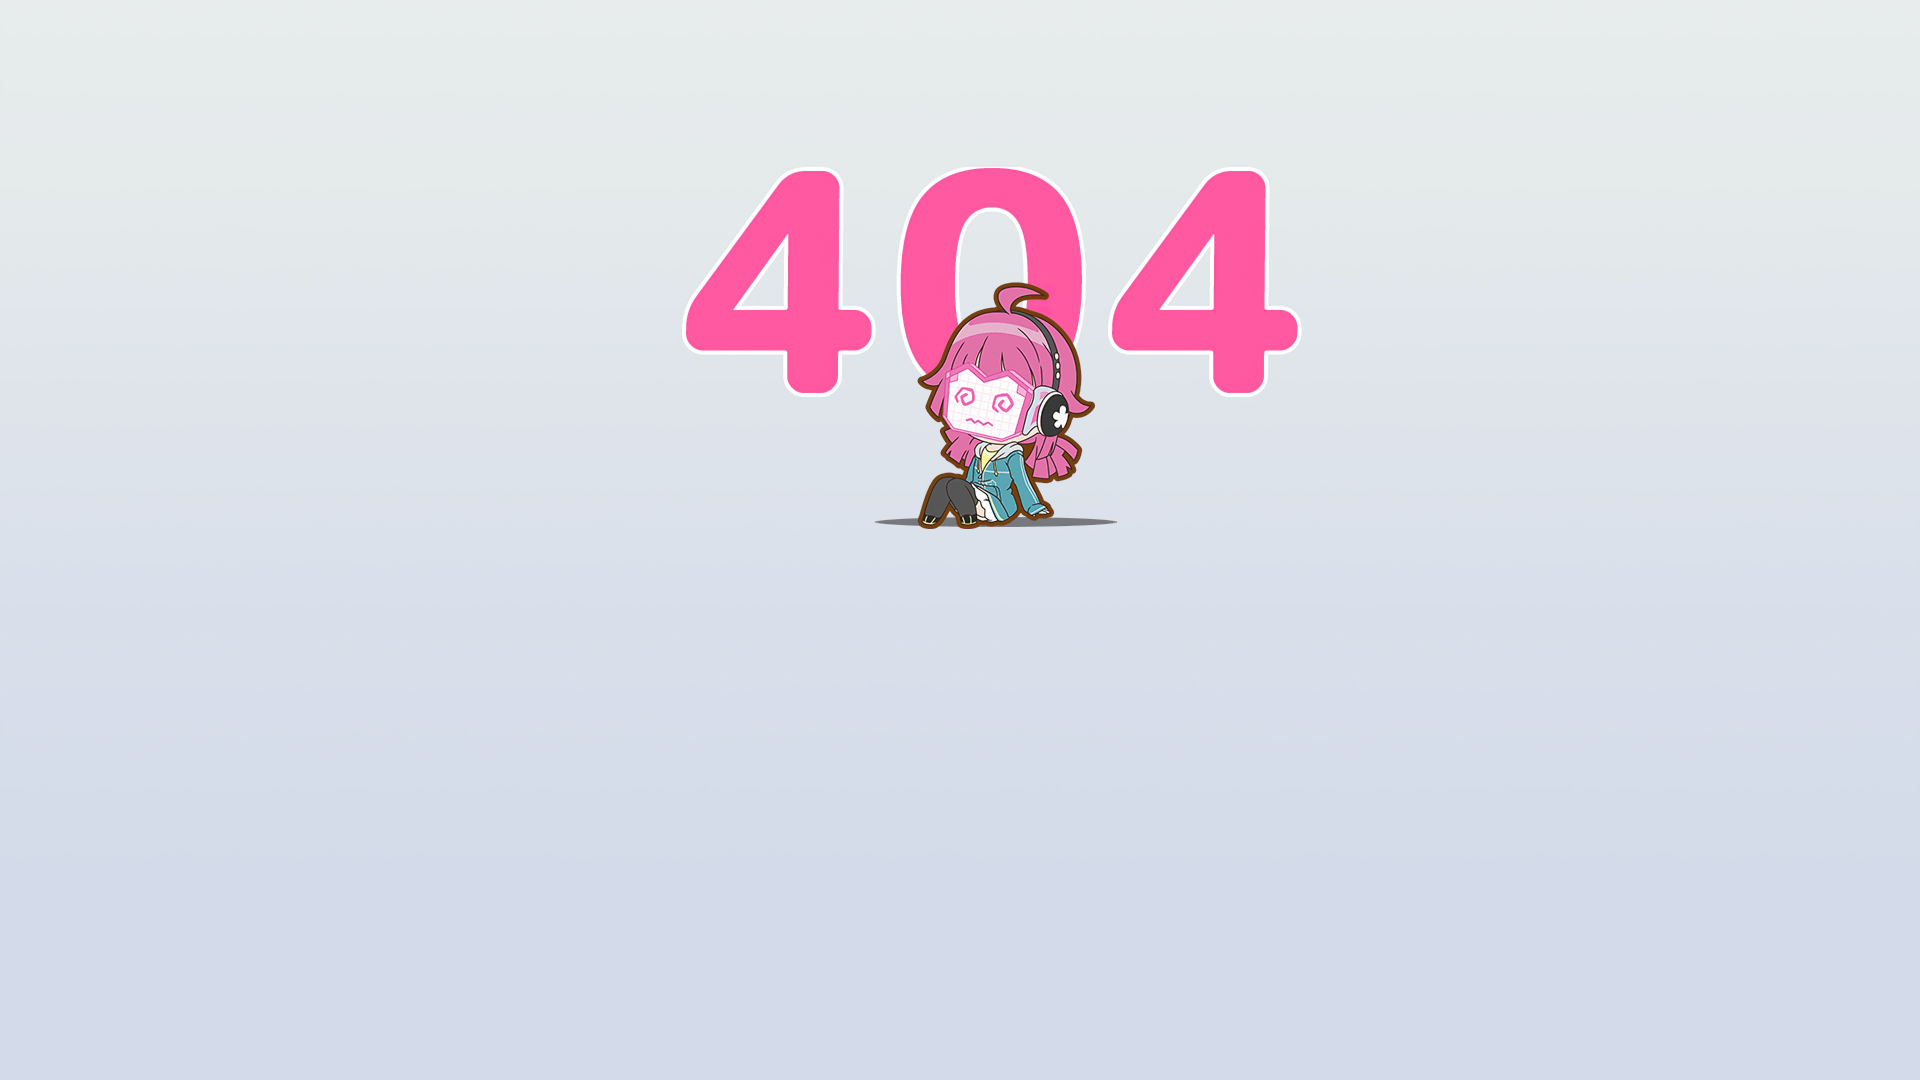
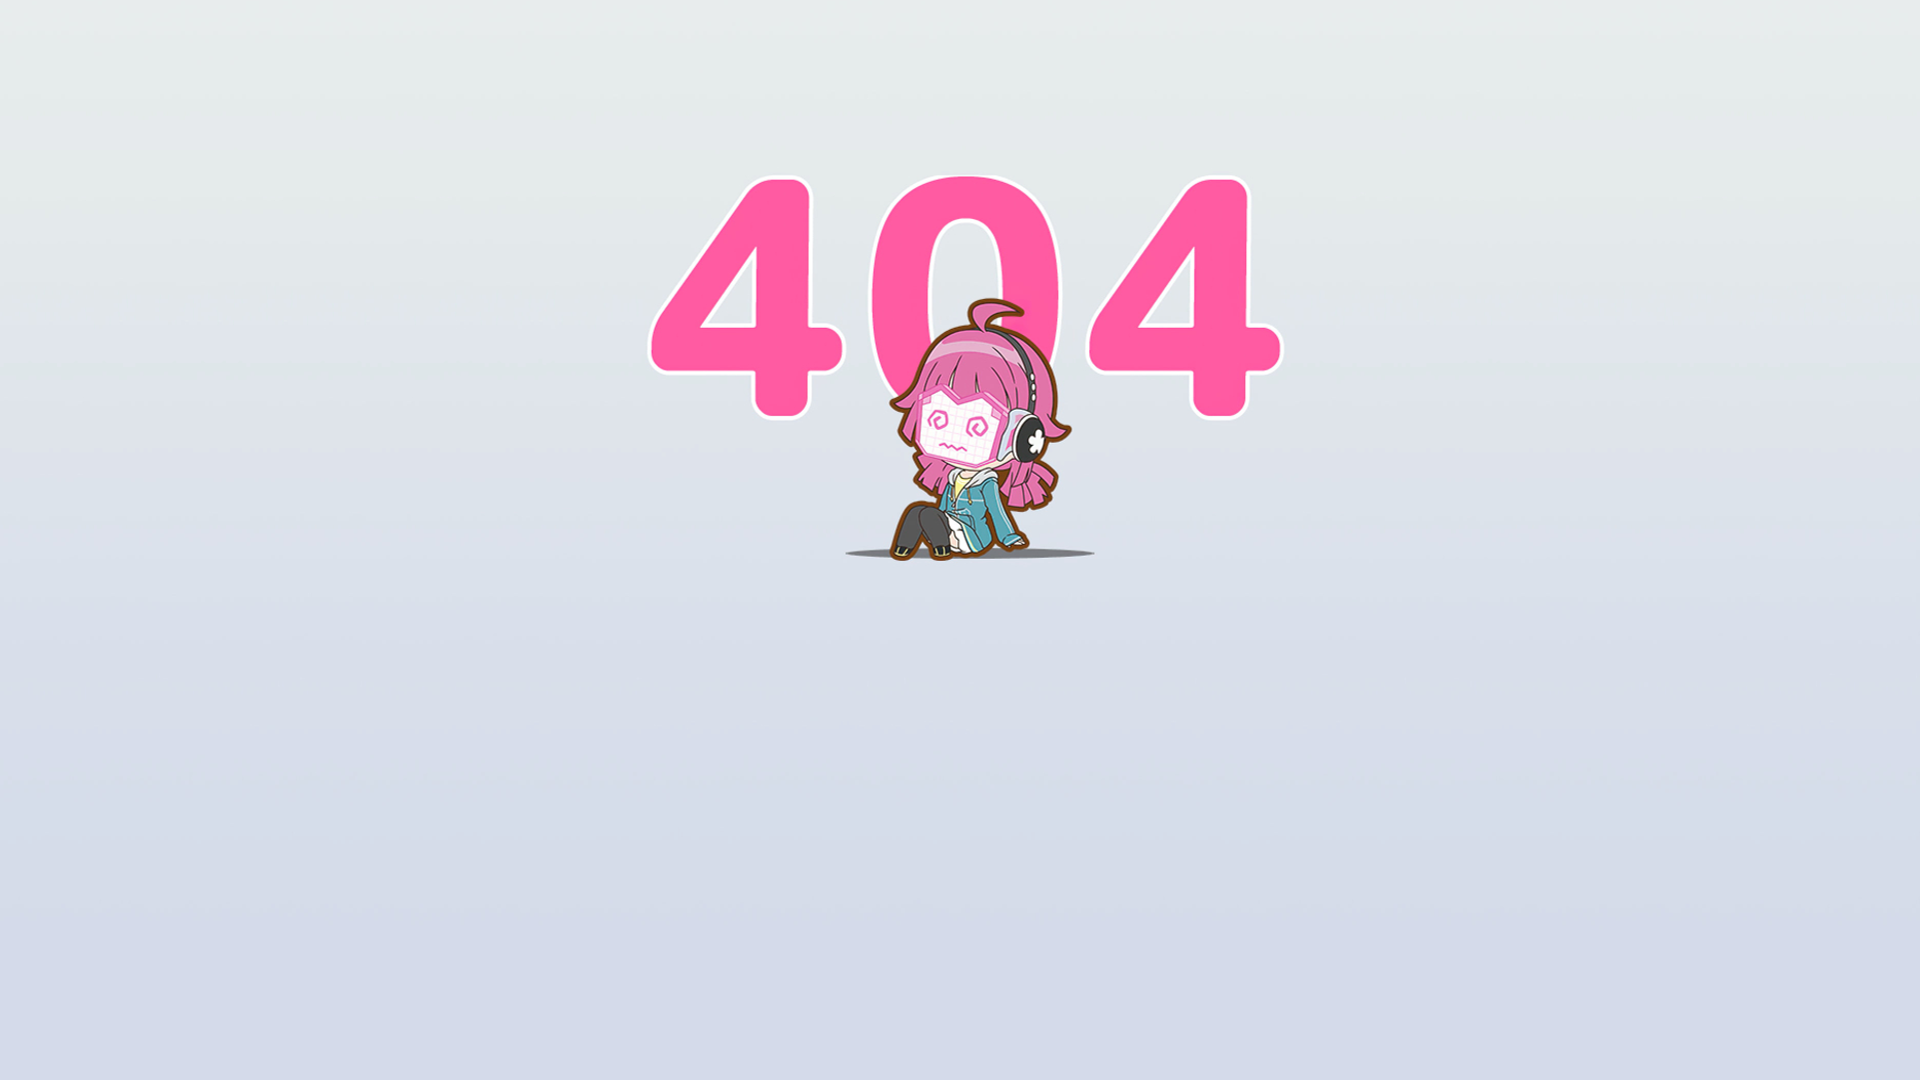
.

Changed region(s): [[0.3125, 0.1528, 0.6875, 0.5194]]

diff --git a/404.html b/404.html
@@ -20,7 +20,7 @@
     <p>Sitio en construcción</p>
     <!-- Contenedor para la animación del GIF -->
     <div class="gif-wrapper">
-      <img src="gif/movimiento.gif" alt="Cargando..." class="gif">
+      <img src="img/bolitaDeNieve2.gif" alt="Cargando..." class="gif">
     </div>
   </div>
 </body>
